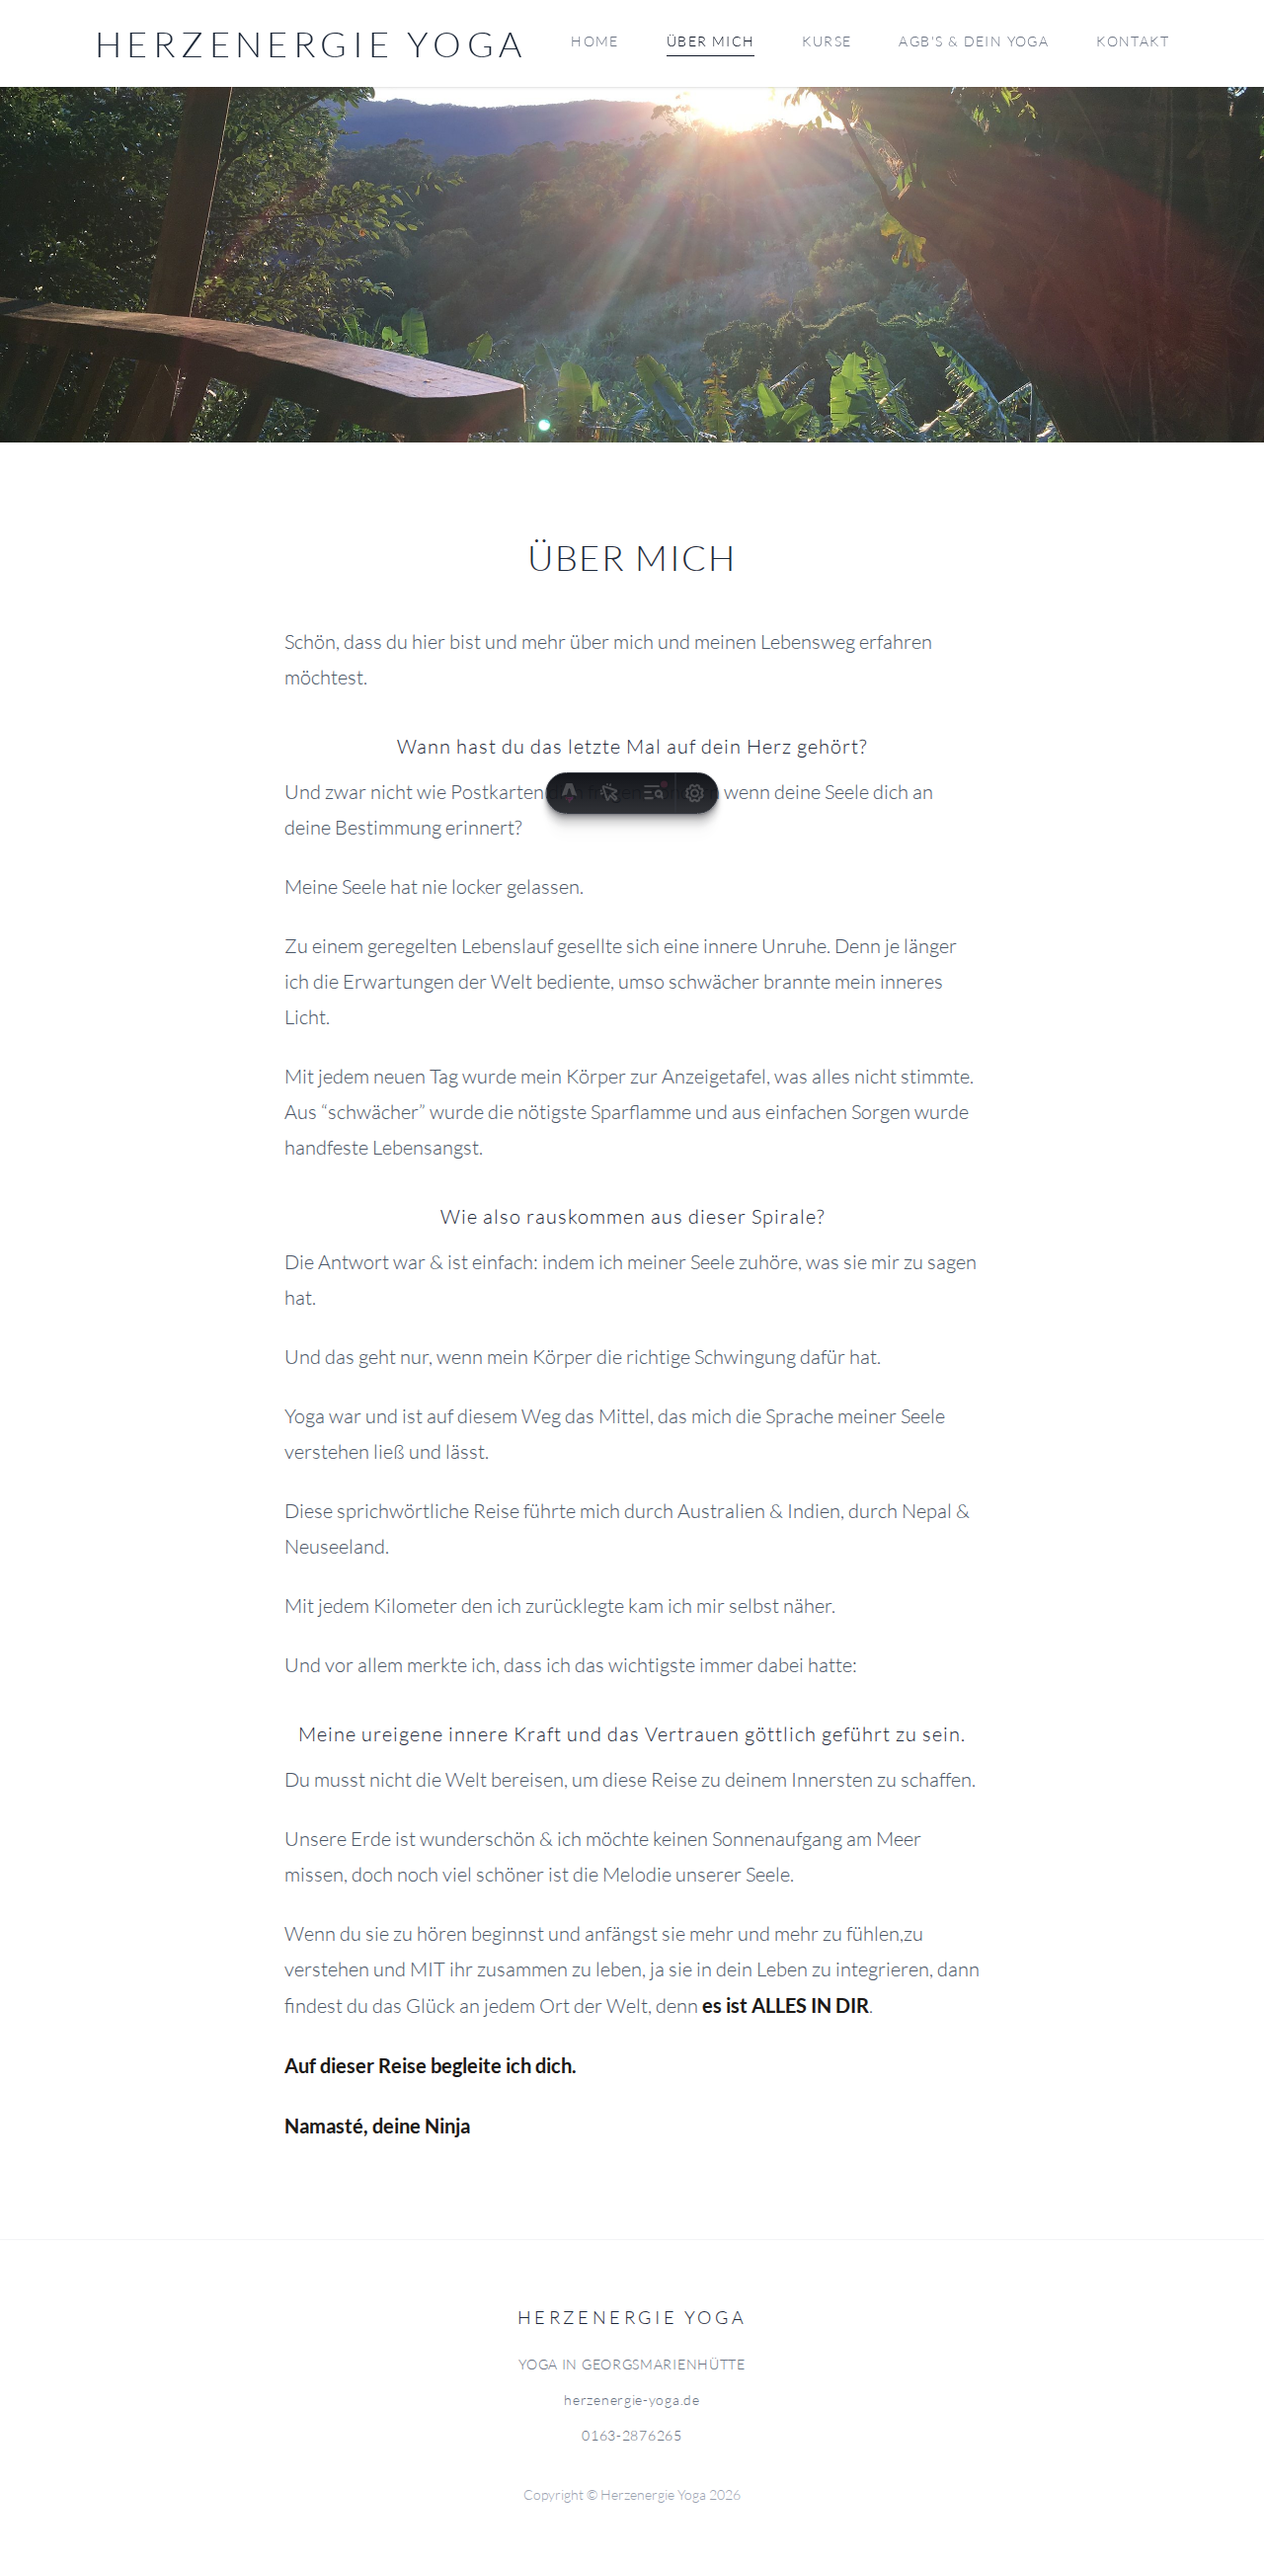
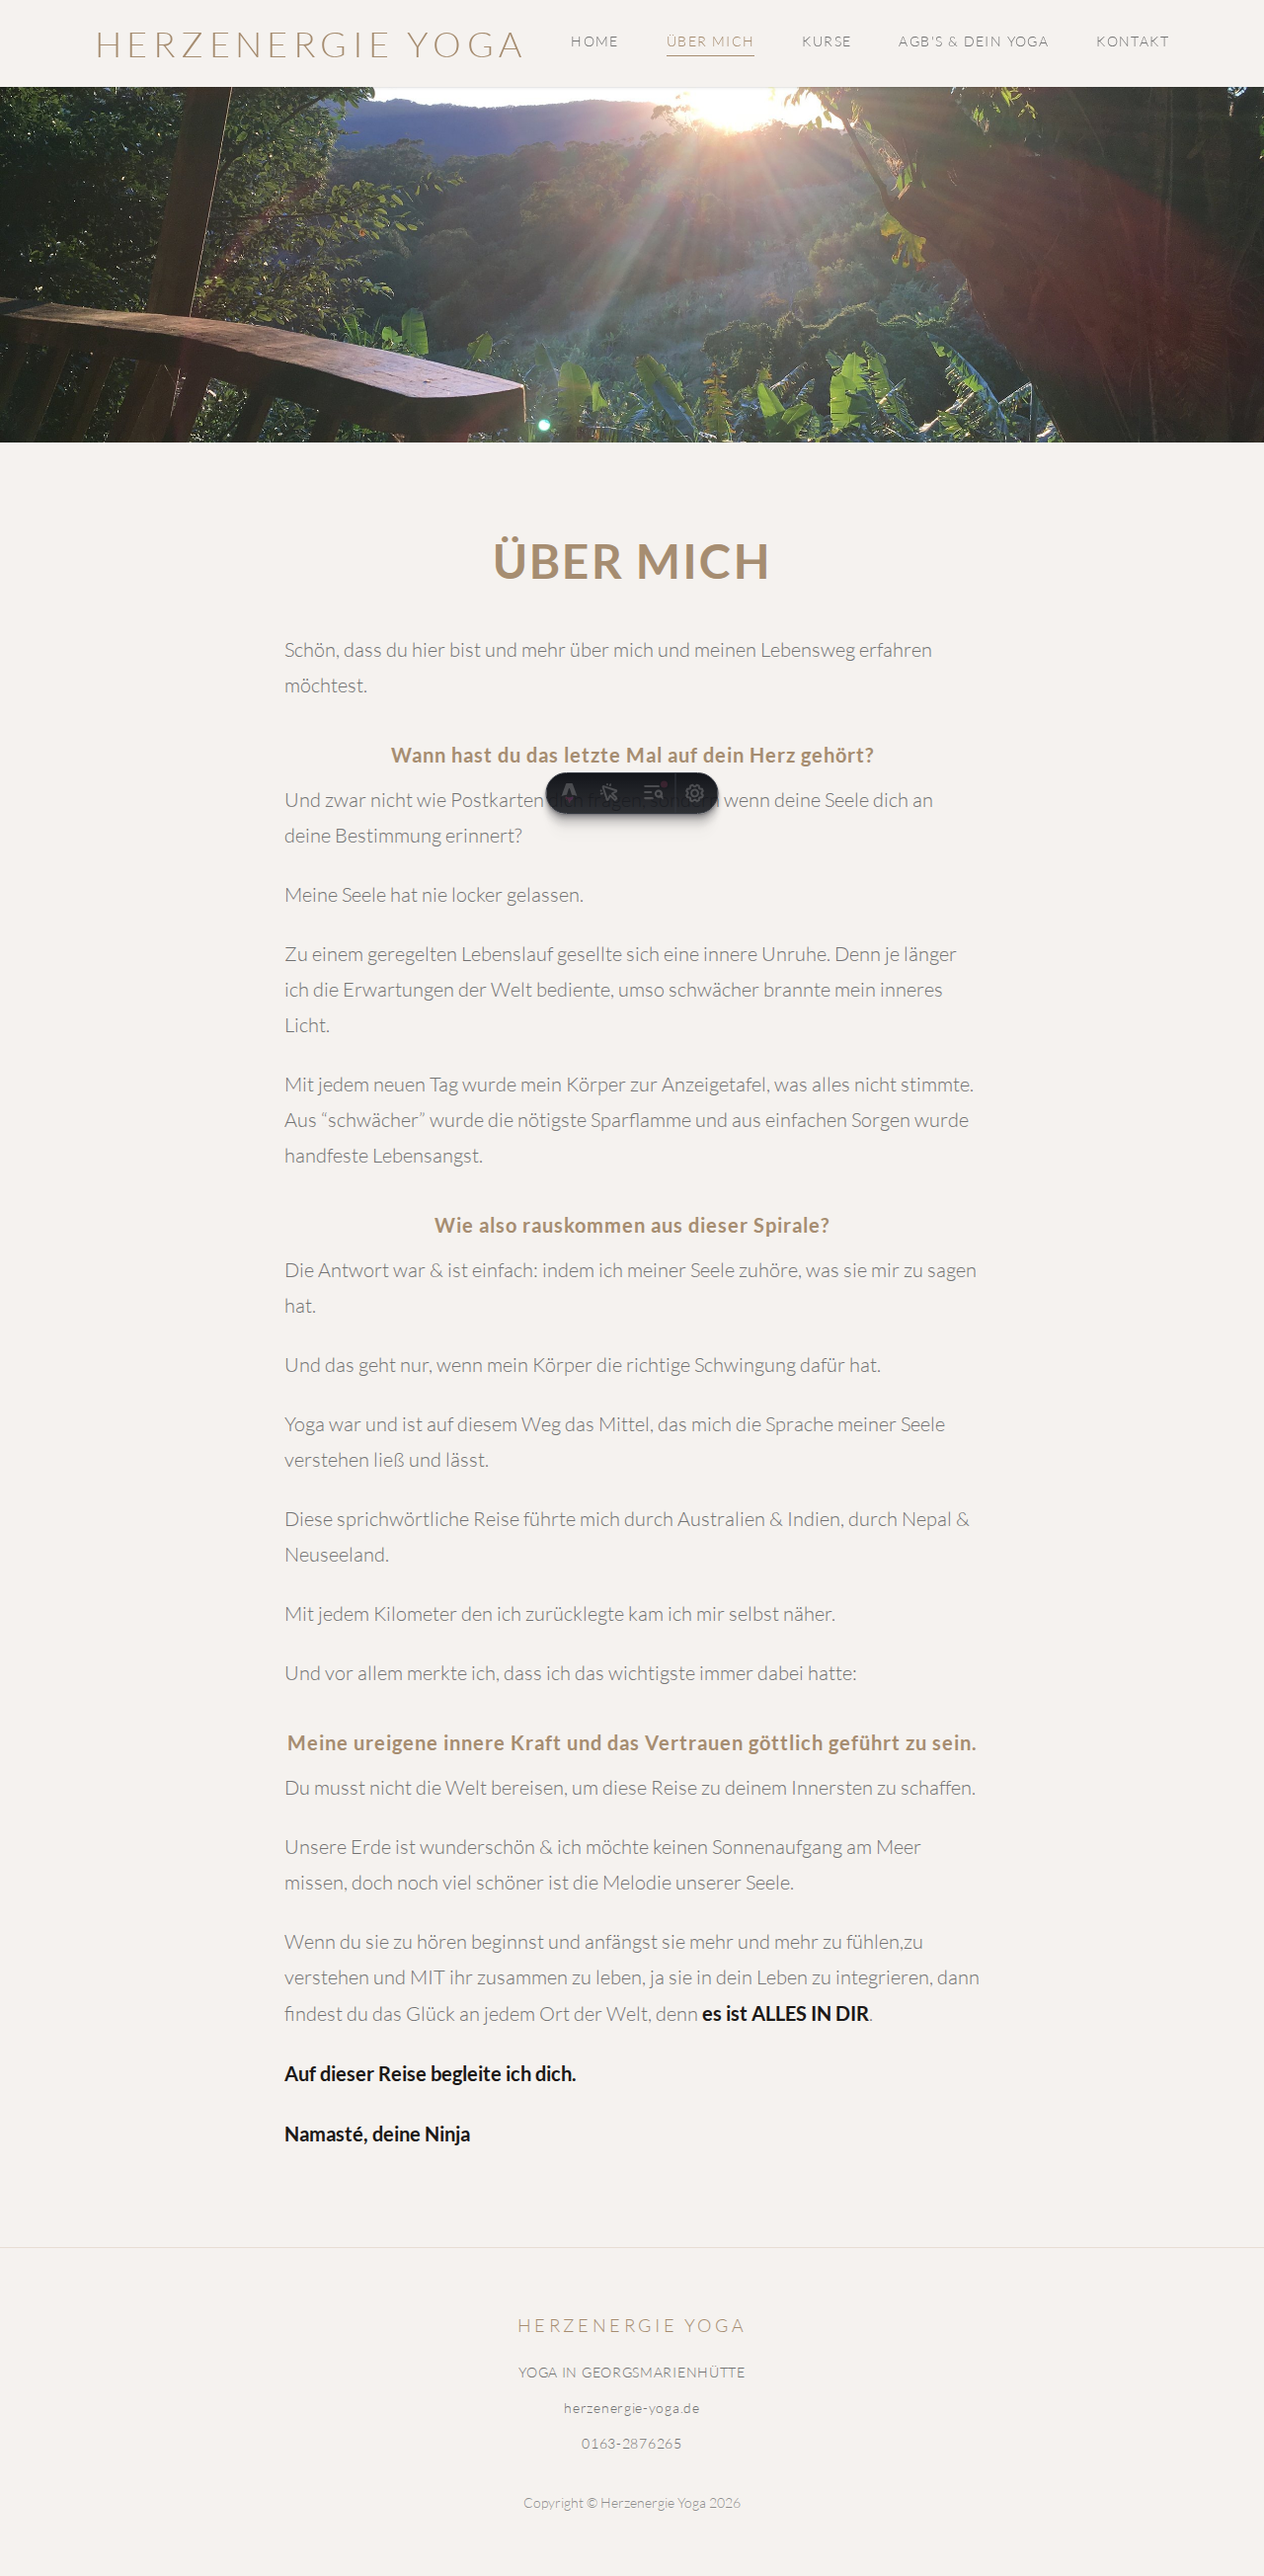
Update site colors to brand palette

diff --git a/src/styles/global.css b/src/styles/global.css
@@ -3,4 +3,8 @@
 
 @theme {
   --font-lato: 'Lato', sans-serif;
+  --color-brand-bg: #f5f2ef;
+  --color-brand-primary: #a68d71;
+  --color-brand-secondary: #b28e65;
+  --color-brand-text: #737373;
 }
